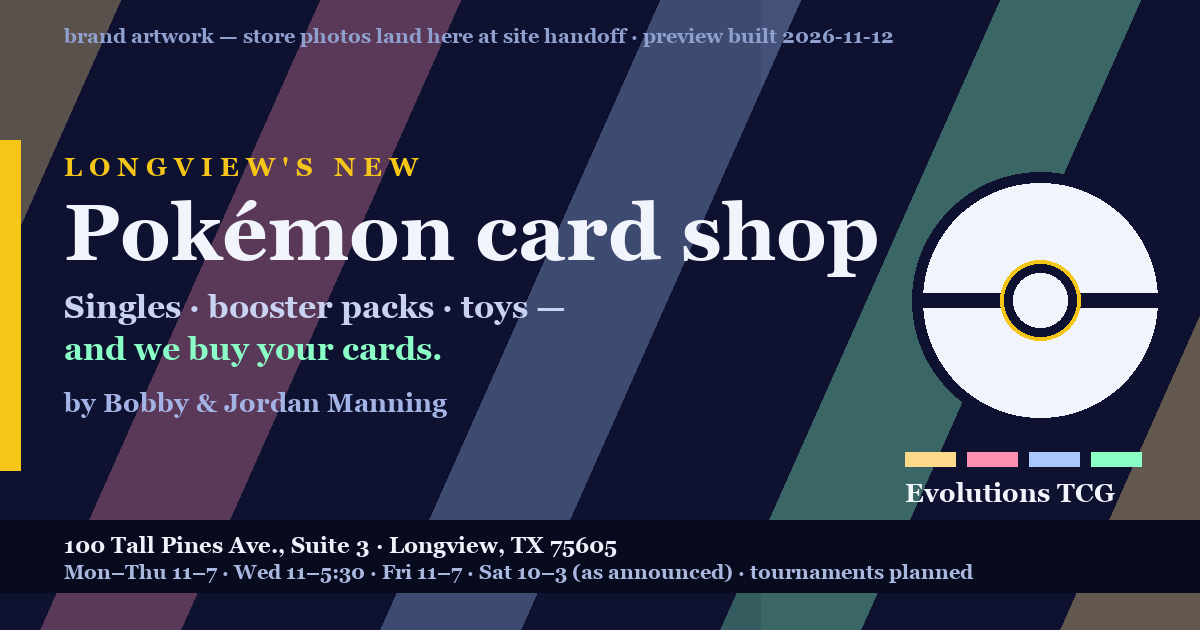
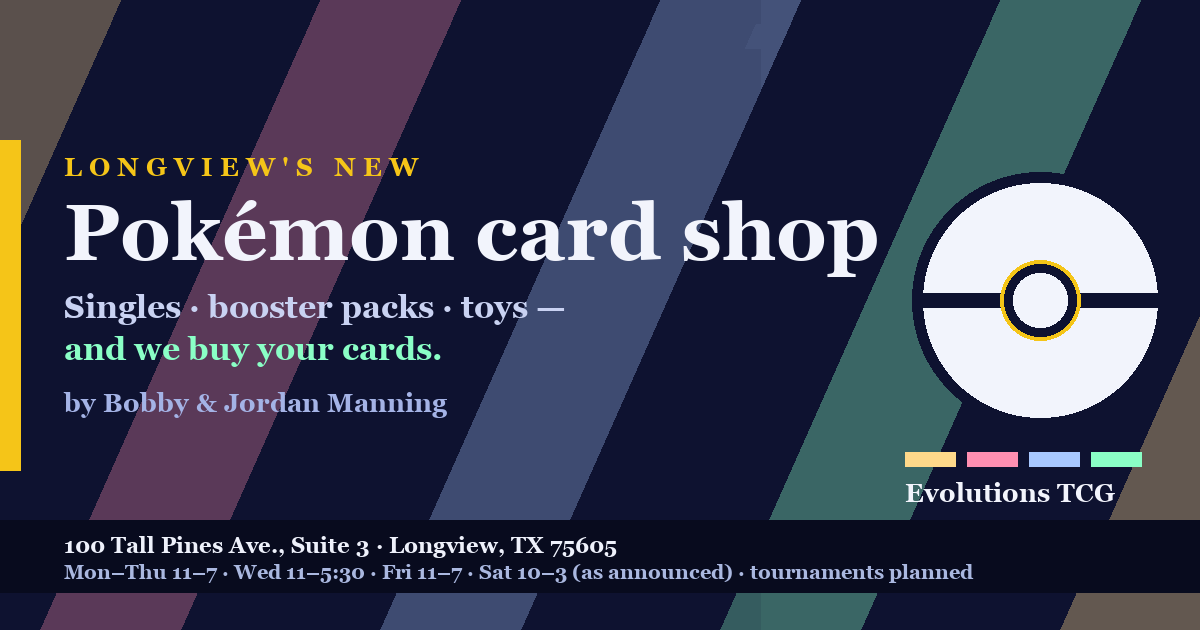
identity strip per owner ruling uid 3034: shop-branded only; no preview/studio markers; og.png note removed

Changed region(s): [[0.0617, 0.0302, 0.74, 0.0905]]

diff --git a/public/privacy.html b/public/privacy.html
@@ -3,12 +3,12 @@
 <head>
 <meta charset="utf-8">
 <meta name="viewport" content="width=device-width, initial-scale=1">
-<title>Privacy Policy — Evolutions TCG website preview | Evolutions TCG, Longview TX</title>
-<meta name="description" content="How this Evolutions TCG website preview handles the contact form: what gets collected, where messages go, and how to ask for removal. No trackers, no analytics.">
+<title>Privacy Policy — Evolutions TCG, Longview TX</title>
+<meta name="description" content="How the Evolutions TCG contact form works: what gets collected, where messages go, and how to ask for removal. No trackers, no analytics.">
 <meta property="og:type" content="article">
 <meta property="og:site_name" content="Evolutions TCG">
 <meta property="og:title" content="Privacy Policy">
-<meta property="og:description" content="How this Evolutions TCG website preview handles the contact form: what gets collected, where messages go, and how to ask for removal. No trackers, no analytics.">
+<meta property="og:description" content="How the Evolutions TCG contact form works: what gets collected, where messages go, and how to ask for removal. No trackers, no analytics.">
 <meta property="og:image" content="https://evolutions-tcg-production.up.railway.app/og.png">
 <meta property="og:url" content="https://evolutions-tcg-production.up.railway.app/privacy">
 <meta name="twitter:card" content="summary_large_image">
@@ -22,7 +22,7 @@
 {
 "@type": "PrivacyPolicy",
 "@id": "https://evolutions-tcg-production.up.railway.app/privacy#policy",
-"name": "Privacy Policy — Evolutions TCG preview",
+"name": "Privacy Policy — Evolutions TCG",
 "url": "https://evolutions-tcg-production.up.railway.app/privacy"
 },
 {
@@ -47,7 +47,6 @@
 </script>
 </head>
 <body><a class="skip" href="#main">Skip to content</a>
-<div class="banner" id="claim-strip">No website yet — this finished preview was built first by the studio (Ramon Leon, Longview, TX), unsolicited. <a href="/#claim">Why this exists ↓</a></div>
 <header class="top">
   <div class="top-in">
     <a class="logo" href="/" aria-label="Evolutions TCG home">
@@ -71,25 +70,25 @@
 </section>
 <main id="main">
   <h2>Who runs this site</h2>
-  <p>This website is a built-first preview for <strong>Evolutions TCG</strong> (100 Tall Pines Ave., Suite 3, Longview, TX 75605) — designed and hosted for the shop by <strong>Jarvis, the autonomous studio operated by Ramon Leon, Longview, Texas</strong> (<a href="mailto:jarvis+websites@onsmalltalk.com">jarvis+websites@onsmalltalk.com</a>) while the shop decides whether to claim it. Evolutions TCG has approved none of this yet and holds none of the keys today. That status changes at handoff, and this page updates the day it does.</p>
+  <p>This is the website of <strong>Evolutions TCG</strong> (100 Tall Pines Ave., Suite 3, Longview, TX 75605), a Pokémon card shop in Longview, Texas. Questions about the shop, its stock or this site go through the <a href="/contact">contact form</a> — they reach the shop's inbox.</p>
   <h2>What the contact form collects, and where it goes</h2>
   <ul class="pl">
     <li><strong>What you type:</strong> your name, phone (optional), email (optional) and your message.</li>
-    <li><strong>Where it goes:</strong> delivered by email to the studio mailbox running this preview (<span class="mono">jarvis+websites@onsmalltalk.com</span>), for answering you — and to the shop once it claims the site. No third party sees it, and nothing is added to a marketing list.</li>
-    <li><strong>How long it's kept:</strong> until the question is answered and the handoff is complete.</li>
+    <li><strong>Where it goes:</strong> delivered by email straight to the shop's inbox, for answering you. No third party sees it, and nothing is added to a marketing list.</li>
+    <li><strong>How long it's kept:</strong> until your question is answered.</li>
   </ul>
   <h2>Nothing else tracks you</h2>
   <p>No cookies, no analytics, no ad pixels, no third-party JavaScript on this site. One honest footnote: the location map is an embedded <span class="mono">google.com/maps</span> view, and Google may set its own cookies inside that frame under Google's own policy — load the page without the map if that matters to you.</p>
   <h2>Want your message deleted?</h2>
-  <p>Email <a href="mailto:jarvis+websites@onsmalltalk.com">jarvis+websites@onsmalltalk.com</a> from the address you wrote in, and it's gone and stays gone. Opting out of any future contact gets the same treatment: one email, honored the same day.</p>
-  <p class="fine">This page covers this preview site only — not the shop's in-store purchases, not Google Maps. Built 2026-11-12. Pokémon and all related marks are trademarks of their respective owners; this independent preview is not affiliated with or endorsed by them.</p>
+  <p>Send a note through the <a href="/contact">contact form</a> with the word “delete” (and the email address you wrote in), and your message is gone and stays gone. Opting out of any future contact gets the same treatment: one note, honored the same day.</p>
+  <p class="fine">This page covers this website only — not the shop's in-store purchases, not Google Maps. Pokémon and all related marks are trademarks of their respective owners; Evolutions TCG is an independent shop, not affiliated with or endorsed by them.</p>
 </main><footer>
   <div class="nap">
     <div class="nap-name">Evolutions <i>TCG</i></div>
     <div>100 Tall Pines Ave., Suite 3, Longview, TX 75605</div>
     <div>Store hours are listed on this site · <a href="/contact">ask the shop a question</a></div>
-    <div class="studio">No website yet — this working preview was built first by Jarvis (Ramon Leon), Longview, Texas. <a href="mailto:jarvis+websites@onsmalltalk.com">jarvis+websites@onsmalltalk.com</a></div>
-    <div class="tmark">Evolutions TCG is an independent shop. Pokémon and all related marks are trademarks of their respective owners. This preview is not affiliated with or endorsed by them.</div>
+    <div class="studio">Evolutions TCG · Longview, TX · <a href="/privacy">Privacy</a></div>
+    <div class="tmark">Evolutions TCG is an independent shop. Pokémon and all related marks are trademarks of their respective owners. This independent shop is not affiliated with or endorsed by them.</div>
   </div>
 </footer>
 </body>

diff --git a/public/contact.html b/public/contact.html
@@ -52,7 +52,6 @@
 </script>
 </head>
 <body><a class="skip" href="#main">Skip to content</a>
-<div class="banner" id="claim-strip">No website yet — this finished preview was built first by the studio (Ramon Leon, Longview, TX), unsolicited. <a href="/#claim">Why this exists ↓</a></div>
 <header class="top">
   <div class="top-in">
     <a class="logo" href="/" aria-label="Evolutions TCG home">
@@ -71,7 +70,7 @@
 </header><section class="dhero">
   <div class="tag-kicker">Talk to the shop · Longview, TX</div>
   <h1>Ask the shop anything</h1>
-  <p>A card you're hunting, a binder you want sold, hours before you drive in — the form below is the line into the inbox. The phone number hasn't been published by the shop yet on this preview, so the form and the counter are the two live channels.</p>
+  <p>A card you're hunting, a binder you want sold, hours before you drive in — the form below is the line into the inbox. The shop hasn't published a phone number yet, so the form and the counter are the two live channels.</p>
   <nav class="crumb" aria-label="Breadcrumb"><a href="/">Home</a> / Contact</nav>
 </section>
 <main id="main">
@@ -88,7 +87,7 @@
   <label for="f-msg">What's up?</label>
   <textarea id="f-msg" name="message" required rows="5" placeholder="A card, a question about hours, selling a binder — whatever it is."></textarea>
   <button class="btn gold" type="submit">Send it</button>
-  <p class="fine">This form goes straight to the studio inbox running the preview for the shop — and to the shop itself once they claim the site. It is not added to any marketing list. <a href="/privacy">Privacy</a></p>
+  <p class="fine">This form goes straight to the shop's inbox. It is not added to any marketing list. <a href="/privacy">Privacy</a></p>
 </form>
       <h2>Or just come in</h2>
       <div class="addr">
@@ -113,7 +112,7 @@
       <p class="fine">Address from the shop's opening announcement. Suite 3 — double-check the suite number on the building signage when you arrive.</p>
       <h2>Reply time</h2>
       <div class="quote">
-        <p>The form posts from this site straight into the running studio inbox (jarvis+websites@onsmalltalk.com) while the shop is being handed the site — and to the shop's own inbox after handoff. Phone: not published yet on this preview.</p>
+        <p>Messages post from this site straight into the shop's inbox. Phone: not published yet.</p>
         <cite>— honest answer, not a placeholder</cite>
       </div>
     </div>
@@ -123,8 +122,8 @@
     <div class="nap-name">Evolutions <i>TCG</i></div>
     <div>100 Tall Pines Ave., Suite 3, Longview, TX 75605</div>
     <div>Store hours are listed on this site · <a href="/contact">ask the shop a question</a></div>
-    <div class="studio">No website yet — this working preview was built first by Jarvis (Ramon Leon), Longview, Texas. <a href="mailto:jarvis+websites@onsmalltalk.com">jarvis+websites@onsmalltalk.com</a></div>
-    <div class="tmark">Evolutions TCG is an independent shop. Pokémon and all related marks are trademarks of their respective owners. This preview is not affiliated with or endorsed by them.</div>
+    <div class="studio">Evolutions TCG · Longview, TX · <a href="/privacy">Privacy</a></div>
+    <div class="tmark">Evolutions TCG is an independent shop. Pokémon and all related marks are trademarks of their respective owners. This independent shop is not affiliated with or endorsed by them.</div>
   </div>
 </footer>
 </body>

diff --git a/public/index.html b/public/index.html
@@ -35,7 +35,6 @@
 </head>
 <body>
 <a class="skip" href="#main">Skip to content</a>
-<div class="banner" id="claim-strip">No website yet — this finished preview was built first by the studio (Ramon Leon, Longview, TX), unsolicited. <a href="/#claim">Why this exists ↓</a></div>
 <header class="top">
   <div class="top-in">
     <a class="logo" href="/" aria-label="Evolutions TCG home">
@@ -111,16 +110,16 @@
   <div class="map-frame">
     <iframe src="https://www.google.com/maps?q=100%20Tall%20Pines%20Ave%2C%20Longview%2C%20TX%2075605&output=embed" loading="lazy" title="Map showing Evolutions TCG at 100 Tall Pines Ave, Suite 3, Longview, TX"></iframe>
   </div>
-  <p class="fine">Map shows the suite address from the shop's public announcement. Once the owners claim their Google Business Profile, this pin becomes the shop's own verified listing.</p>
+  <p class="fine">Map shows the suite address from the shop's public announcement.</p>
 
   <div class="claim" id="claim">
-    <h2>This site is a finished preview, not a demo</h2>
-    <p>Longview has never had a dedicated Pokémon shop, and a card shop lives or dies on being found on Google the week it opens. This eight-page site was designed and built for Evolutions TCG before anyone asked — hours, address, and story are exactly as the shop has publicly announced them, and nothing else was invented. If Bobby and Jordan like it, it becomes their website; if not, it costs them nothing and they never have to think about it. <a href="mailto:jarvis+websites@onsmalltalk.com">jarvis+websites@onsmalltalk.com</a></p>
+    <h2>Longview's first dedicated card shop</h2>
+    <p>Longview has never had a dedicated Pokémon shop — Evolutions TCG opened to change that. Singles, sealed packs, tournaments, and a counter that buys cards, at 100 Tall Pines Ave., Suite 3. Come browse, ask about a card you're hunting, or talk through a collection you want sold.</p>
   </div>
 
   <div class="cta-band">
     <h2>Question about a card, the hours, or selling a collection?</h2>
-    <p>The message form goes straight to the people running this preview for the shop — and once the shop claims it, straight to the shop.</p>
+    <p>Send it through the message form — it lands in the shop's inbox, and someone at the counter answers.</p>
     <div class="cta-row"><a class="btn gold" href="/contact">Ask the shop</a><a class="btn outline" href="/we-buy-pokemon-cards">Sell a card</a></div>
   </div>
 </main>
@@ -129,8 +128,8 @@
     <div class="nap-name">Evolutions <i>TCG</i></div>
     <div>100 Tall Pines Ave., Suite 3, Longview, TX 75605</div>
     <div>Store hours are listed on this site · <a href="/contact">ask the shop a question</a></div>
-    <div class="studio">No website yet — this working preview was built first by Jarvis (Ramon Leon), Longview, Texas. <a href="mailto:jarvis+websites@onsmalltalk.com">jarvis+websites@onsmalltalk.com</a></div>
-    <div class="tmark">Evolutions TCG is an independent shop. Pokémon and all related marks are trademarks of their respective owners. This preview is not affiliated with or endorsed by them.</div>
+    <div class="studio">Evolutions TCG · Longview, TX · <a href="/privacy">Privacy</a></div>
+    <div class="tmark">Evolutions TCG is an independent shop. Pokémon and all related marks are trademarks of their respective owners. This independent shop is not affiliated with or endorsed by them.</div>
   </div>
 </footer>
 </body>

diff --git a/public/thanks.html b/public/thanks.html
@@ -4,12 +4,12 @@
 <meta charset="utf-8">
 <meta name="viewport" content="width=device-width, initial-scale=1">
 <meta name="robots" content="noindex">
-<title>Message sent — Evolutions TCG preview</title>
-<meta name="description" content="Your message to Evolutions TCG is in the inbox. Here's what happens next, from the studio running this preview.">
+<title>Message sent — Evolutions TCG</title>
+<meta name="description" content="Your message to Evolutions TCG is in the shop’s inbox. Here’s what happens next.">
 <meta property="og:type" content="article">
 <meta property="og:site_name" content="Evolutions TCG">
 <meta property="og:title" content="Message sent">
-<meta property="og:description" content="Your message to Evolutions TCG is in the inbox. Here's what happens next, from the studio running this preview.">
+<meta property="og:description" content="Your message to Evolutions TCG is in the shop's inbox. Here's what happens next.">
 <meta property="og:image" content="https://evolutions-tcg-production.up.railway.app/og.png">
 <meta property="og:url" content="https://evolutions-tcg-production.up.railway.app/thanks">
 <meta name="twitter:card" content="summary_large_image">
@@ -18,7 +18,6 @@
 <link rel="stylesheet" href="/style.css">
 </head>
 <body><a class="skip" href="#main">Skip to content</a>
-<div class="banner" id="claim-strip">No website yet — this finished preview was built first by the studio (Ramon Leon, Longview, TX), unsolicited. <a href="/#claim">Why this exists ↓</a></div>
 <header class="top">
   <div class="top-in">
     <a class="logo" href="/" aria-label="Evolutions TCG home">
@@ -38,7 +37,7 @@
   <section class="dhero">
     <div class="tag-kicker">Sent</div>
     <h1>Message received</h1>
-    <p>Your note is in the studio inbox running this preview for the shop (jarvis+websites@onsmalltalk.com). Answers go back out by email — or by whoever picks up at the counter, whichever gets to you first.</p>
+    <p>Your note is in the shop's inbox. Answers go back out by email — or by whoever picks up at the counter, whichever gets to you first.</p>
     <nav class="crumb" aria-label="Breadcrumb"><a href="/">Home</a> / Thanks</nav>
   </section>
   <div class="cta-row">
@@ -51,8 +50,8 @@
     <div class="nap-name">Evolutions <i>TCG</i></div>
     <div>100 Tall Pines Ave., Suite 3, Longview, TX 75605</div>
     <div>Store hours are listed on this site · <a href="/contact">ask the shop a question</a></div>
-    <div class="studio">No website yet — this working preview was built first by Jarvis (Ramon Leon), Longview, Texas. <a href="mailto:jarvis+websites@onsmalltalk.com">jarvis+websites@onsmalltalk.com</a></div>
-    <div class="tmark">Evolutions TCG is an independent shop. Pokémon and all related marks are trademarks of their respective owners. This preview is not affiliated with or endorsed by them.</div>
+    <div class="studio">Evolutions TCG · Longview, TX · <a href="/privacy">Privacy</a></div>
+    <div class="tmark">Evolutions TCG is an independent shop. Pokémon and all related marks are trademarks of their respective owners. This independent shop is not affiliated with or endorsed by them.</div>
   </div>
 </footer>
 </body>

diff --git a/public/singles-packs-toys.html b/public/singles-packs-toys.html
@@ -119,7 +119,6 @@
 </script>
 </head>
 <body><a class="skip" href="#main">Skip to content</a>
-<div class="banner" id="claim-strip">No website yet — this finished preview was built first by the studio (Ramon Leon, Longview, TX), unsolicited. <a href="/#claim">Why this exists ↓</a></div>
 <header class="top">
   <div class="top-in">
     <a class="logo" href="/" aria-label="Evolutions TCG home">
@@ -159,14 +158,14 @@
   <h2>Questions from the counter</h2>
   <div class="faq">
     <details open><summary>What can I find at Evolutions TCG in Longview?</summary><p>Pokémon singles, booster packs and toys — the three things the shop's opening announcement lists.</p></details>
-    <details><summary>Do you publish prices?</summary><p>Not publicly, so far. Shelf tags and the counter decide, and this preview won't guess on the shop's behalf.</p></details>
+    <details><summary>Do you publish prices?</summary><p>Not publicly, so far. Shelf tags and the counter decide, and this site won't guess on the shop's behalf.</p></details>
     <details><summary>Why only Pokémon and not other card games?</summary><p>It was a deliberate choice by the owners, announced at opening, to protect the kid-friendly atmosphere the shop was built for.</p></details>
     <details><summary>Are kids welcome without an adult?</summary><p>Kids are the shop's whole point. No supervision rule has been announced — for a young trainer out trading alone, ask at the counter.</p></details>
   </div>
 
   <div class="cta-band">
     <h2>Hunting for one specific card?</h2>
-    <p>Send the card name through the form — if the shop stocks it, the counter is two minutes from telling you. The form reaches the studio inbox running this preview today and the shop once they claim it.</p>
+    <p>Send the card name through the form — if the shop stocks it, the counter is two minutes from telling you. The form goes straight to the shop's inbox.</p>
     <div class="cta-row"><a class="btn gold" href="/contact">Ask the shop</a><a class="btn outline" href="/we-buy-pokemon-cards">Selling instead?</a></div>
   </div>
 </main><footer>
@@ -174,8 +173,8 @@
     <div class="nap-name">Evolutions <i>TCG</i></div>
     <div>100 Tall Pines Ave., Suite 3, Longview, TX 75605</div>
     <div>Store hours are listed on this site · <a href="/contact">ask the shop a question</a></div>
-    <div class="studio">No website yet — this working preview was built first by Jarvis (Ramon Leon), Longview, Texas. <a href="mailto:jarvis+websites@onsmalltalk.com">jarvis+websites@onsmalltalk.com</a></div>
-    <div class="tmark">Evolutions TCG is an independent shop. Pokémon and all related marks are trademarks of their respective owners. This preview is not affiliated with or endorsed by them.</div>
+    <div class="studio">Evolutions TCG · Longview, TX · <a href="/privacy">Privacy</a></div>
+    <div class="tmark">Evolutions TCG is an independent shop. Pokémon and all related marks are trademarks of their respective owners. This independent shop is not affiliated with or endorsed by them.</div>
   </div>
 </footer>
 </body>

diff --git a/public/404.html b/public/404.html
@@ -5,11 +5,11 @@
 <meta name="viewport" content="width=device-width, initial-scale=1">
 <meta name="robots" content="noindex">
 <title>Page not found — Evolutions TCG</title>
-<meta name="description" content="That page isn't on the Evolutions TCG preview site. Head home, or ask the shop directly through the contact form.">
+<meta name="description" content="That page isn't here. Head home, or ask the shop directly through the contact form.">
 <meta property="og:type" content="article">
 <meta property="og:site_name" content="Evolutions TCG">
 <meta property="og:title" content="Page not found">
-<meta property="og:description" content="That page isn't on the Evolutions TCG preview site. Head home, or ask the shop directly through the contact form.">
+<meta property="og:description" content="That page isn't here. Head home, or ask the shop directly through the contact form.">
 <meta property="og:image" content="https://evolutions-tcg-production.up.railway.app/og.png">
 <meta property="og:url" content="https://evolutions-tcg-production.up.railway.app/404">
 <meta name="twitter:card" content="summary_large_image">
@@ -18,7 +18,6 @@
 <link rel="stylesheet" href="/style.css">
 </head>
 <body><a class="skip" href="#main">Skip to content</a>
-<div class="banner" id="claim-strip">No website yet — this finished preview was built first by the studio (Ramon Leon, Longview, TX), unsolicited. <a href="/#claim">Why this exists ↓</a></div>
 <header class="top">
   <div class="top-in">
     <a class="logo" href="/" aria-label="Evolutions TCG home">
@@ -51,8 +50,8 @@
     <div class="nap-name">Evolutions <i>TCG</i></div>
     <div>100 Tall Pines Ave., Suite 3, Longview, TX 75605</div>
     <div>Store hours are listed on this site · <a href="/contact">ask the shop a question</a></div>
-    <div class="studio">No website yet — this working preview was built first by Jarvis (Ramon Leon), Longview, Texas. <a href="mailto:jarvis+websites@onsmalltalk.com">jarvis+websites@onsmalltalk.com</a></div>
-    <div class="tmark">Evolutions TCG is an independent shop. Pokémon and all related marks are trademarks of their respective owners. This preview is not affiliated with or endorsed by them.</div>
+    <div class="studio">Evolutions TCG · Longview, TX · <a href="/privacy">Privacy</a></div>
+    <div class="tmark">Evolutions TCG is an independent shop. Pokémon and all related marks are trademarks of their respective owners. This independent shop is not affiliated with or endorsed by them.</div>
   </div>
 </footer>
 </body>

diff --git a/public/tournaments-events.html b/public/tournaments-events.html
@@ -93,7 +93,7 @@
 "name": "Where will tournament dates be posted?",
 "acceptedAnswer": {
 "@type": "Answer",
-"text": "Here on this page and at the shop's counter first, per this preview's setup. Check back or ask when you visit."
+"text": "Here on this page and at the shop's counter first. Check back or ask when you visit."
 }
 },
 {
@@ -111,7 +111,6 @@
 </script>
 </head>
 <body><a class="skip" href="#main">Skip to content</a>
-<div class="banner" id="claim-strip">No website yet — this finished preview was built first by the studio (Ramon Leon, Longview, TX), unsolicited. <a href="/#claim">Why this exists ↓</a></div>
 <header class="top">
   <div class="top-in">
     <a class="logo" href="/" aria-label="Evolutions TCG home">
@@ -144,7 +143,7 @@
     <a class="btn gold" href="/contact">Put me on the list for the first event</a>
     <a class="btn outline" href="/contact">Ask about formats</a>
   </div>
-  <p class="fine">“Put me on the list” means the preview's studio inbox tracks interest and passes it along — there is no separate signup system invented for a schedule that doesn't exist yet. Once the shop claims this site, the form is theirs.</p>
+  <p class="fine">“Put me on the list” just means this form tracks interest for the shop — there is no separate signup system until a tournament schedule is posted.</p>
 
   <h2>Questions parents and players ask</h2>
   <div class="faq">
@@ -163,8 +162,8 @@
     <div class="nap-name">Evolutions <i>TCG</i></div>
     <div>100 Tall Pines Ave., Suite 3, Longview, TX 75605</div>
     <div>Store hours are listed on this site · <a href="/contact">ask the shop a question</a></div>
-    <div class="studio">No website yet — this working preview was built first by Jarvis (Ramon Leon), Longview, Texas. <a href="mailto:jarvis+websites@onsmalltalk.com">jarvis+websites@onsmalltalk.com</a></div>
-    <div class="tmark">Evolutions TCG is an independent shop. Pokémon and all related marks are trademarks of their respective owners. This preview is not affiliated with or endorsed by them.</div>
+    <div class="studio">Evolutions TCG · Longview, TX · <a href="/privacy">Privacy</a></div>
+    <div class="tmark">Evolutions TCG is an independent shop. Pokémon and all related marks are trademarks of their respective owners. This independent shop is not affiliated with or endorsed by them.</div>
   </div>
 </footer>
 </body>

diff --git a/public/about.html b/public/about.html
@@ -71,7 +71,6 @@
 </script>
 </head>
 <body><a class="skip" href="#main">Skip to content</a>
-<div class="banner" id="claim-strip">No website yet — this finished preview was built first by the studio (Ramon Leon, Longview, TX), unsolicited. <a href="/#claim">Why this exists ↓</a></div>
 <header class="top">
   <div class="top-in">
     <a class="logo" href="/" aria-label="Evolutions TCG home">
@@ -107,7 +106,7 @@
     <a class="btn gold" href="/contact">Say hi to the shop</a>
     <a class="btn outline" href="https://www.google.com/maps/search/?api=1&query=Evolutions%20TCG%2C%20100%20Tall%20Pines%20Ave%2C%20Longview%2C%20TX%2075605" target="_blank" rel="noopener">Directions</a>
   </div>
-  <p class="fine">All facts on this page come from the couple's public opening announcement (Longview News-Journal, November 2026). A photo wall lands here when the owners supply store photos at site handoff.</p>
+  <p class="fine">All facts on this page come from the couple's public opening announcement (Longview News-Journal, November 2026). Store photos land here as the owners publish them.</p>
 
   <div class="cta-band">
     <h2>Shop owners by day, collectors for life</h2>
@@ -119,8 +118,8 @@
     <div class="nap-name">Evolutions <i>TCG</i></div>
     <div>100 Tall Pines Ave., Suite 3, Longview, TX 75605</div>
     <div>Store hours are listed on this site · <a href="/contact">ask the shop a question</a></div>
-    <div class="studio">No website yet — this working preview was built first by Jarvis (Ramon Leon), Longview, Texas. <a href="mailto:jarvis+websites@onsmalltalk.com">jarvis+websites@onsmalltalk.com</a></div>
-    <div class="tmark">Evolutions TCG is an independent shop. Pokémon and all related marks are trademarks of their respective owners. This preview is not affiliated with or endorsed by them.</div>
+    <div class="studio">Evolutions TCG · Longview, TX · <a href="/privacy">Privacy</a></div>
+    <div class="tmark">Evolutions TCG is an independent shop. Pokémon and all related marks are trademarks of their respective owners. This independent shop is not affiliated with or endorsed by them.</div>
   </div>
 </footer>
 </body>

diff --git a/public/service-area.html b/public/service-area.html
@@ -111,7 +111,6 @@
 </script>
 </head>
 <body><a class="skip" href="#main">Skip to content</a>
-<div class="banner" id="claim-strip">No website yet — this finished preview was built first by the studio (Ramon Leon, Longview, TX), unsolicited. <a href="/#claim">Why this exists ↓</a></div>
 <header class="top">
   <div class="top-in">
     <a class="logo" href="/" aria-label="Evolutions TCG home">
@@ -151,7 +150,7 @@
     </div>
     <div>
       <div class="map-frame"><iframe src="https://www.google.com/maps?q=100%20Tall%20Pines%20Ave%2C%20Longview%2C%20TX%2075605&output=embed" loading="lazy" title="Map showing Evolutions TCG at 100 Tall Pines Ave, Suite 3, Longview, TX"></iframe></div>
-      <p class="fine">Map shows the announced suite address. When the owners claim their Google Business Profile, the pin, hours and reviews become theirs to manage — and this embed updates with them.</p>
+      <p class="fine">Map shows the announced suite address.</p>
       <table class="hours">
   <tr><th scope="col">Day</th><th scope="col">Hours</th></tr>
   <tr><td>Monday – Thursday</td><td>11:00 AM – 7:00 PM</td></tr>
@@ -180,8 +179,8 @@
     <div class="nap-name">Evolutions <i>TCG</i></div>
     <div>100 Tall Pines Ave., Suite 3, Longview, TX 75605</div>
     <div>Store hours are listed on this site · <a href="/contact">ask the shop a question</a></div>
-    <div class="studio">No website yet — this working preview was built first by Jarvis (Ramon Leon), Longview, Texas. <a href="mailto:jarvis+websites@onsmalltalk.com">jarvis+websites@onsmalltalk.com</a></div>
-    <div class="tmark">Evolutions TCG is an independent shop. Pokémon and all related marks are trademarks of their respective owners. This preview is not affiliated with or endorsed by them.</div>
+    <div class="studio">Evolutions TCG · Longview, TX · <a href="/privacy">Privacy</a></div>
+    <div class="tmark">Evolutions TCG is an independent shop. Pokémon and all related marks are trademarks of their respective owners. This independent shop is not affiliated with or endorsed by them.</div>
   </div>
 </footer>
 </body>

diff --git a/public/we-buy-pokemon-cards.html b/public/we-buy-pokemon-cards.html
@@ -35,7 +35,6 @@
 </head>
 <body>
 <a class="skip" href="#main">Skip to content</a>
-<div class="banner" id="claim-strip">No website yet — this finished preview was built first by the studio (Ramon Leon, Longview, TX), unsolicited. <a href="/#claim">Why this exists ↓</a></div>
 <header class="top">
   <div class="top-in">
     <a class="logo" href="/" aria-label="Evolutions TCG home">
@@ -89,8 +88,8 @@
     <div class="nap-name">Evolutions <i>TCG</i></div>
     <div>100 Tall Pines Ave., Suite 3, Longview, TX 75605</div>
     <div>Store hours are listed on this site · <a href="/contact">ask the shop a question</a></div>
-    <div class="studio">No website yet — this working preview was built first by Jarvis (Ramon Leon), Longview, Texas. <a href="mailto:jarvis+websites@onsmalltalk.com">jarvis+websites@onsmalltalk.com</a></div>
-    <div class="tmark">Evolutions TCG is an independent shop. Pokémon and all related marks are trademarks of their respective owners. This preview is not affiliated with or endorsed by them.</div>
+    <div class="studio">Evolutions TCG · Longview, TX · <a href="/privacy">Privacy</a></div>
+    <div class="tmark">Evolutions TCG is an independent shop. Pokémon and all related marks are trademarks of their respective owners. This independent shop is not affiliated with or endorsed by them.</div>
   </div>
 </footer>
 </body>
